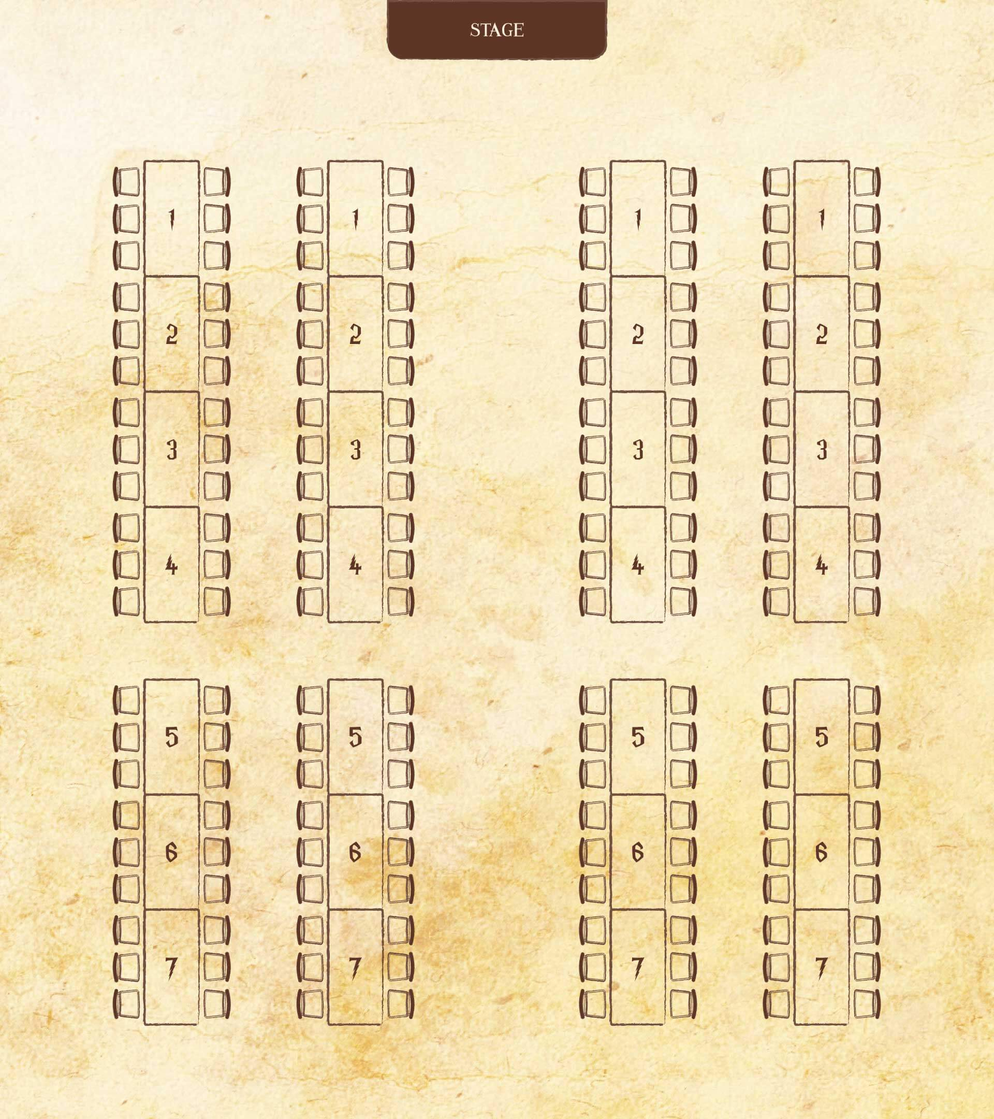
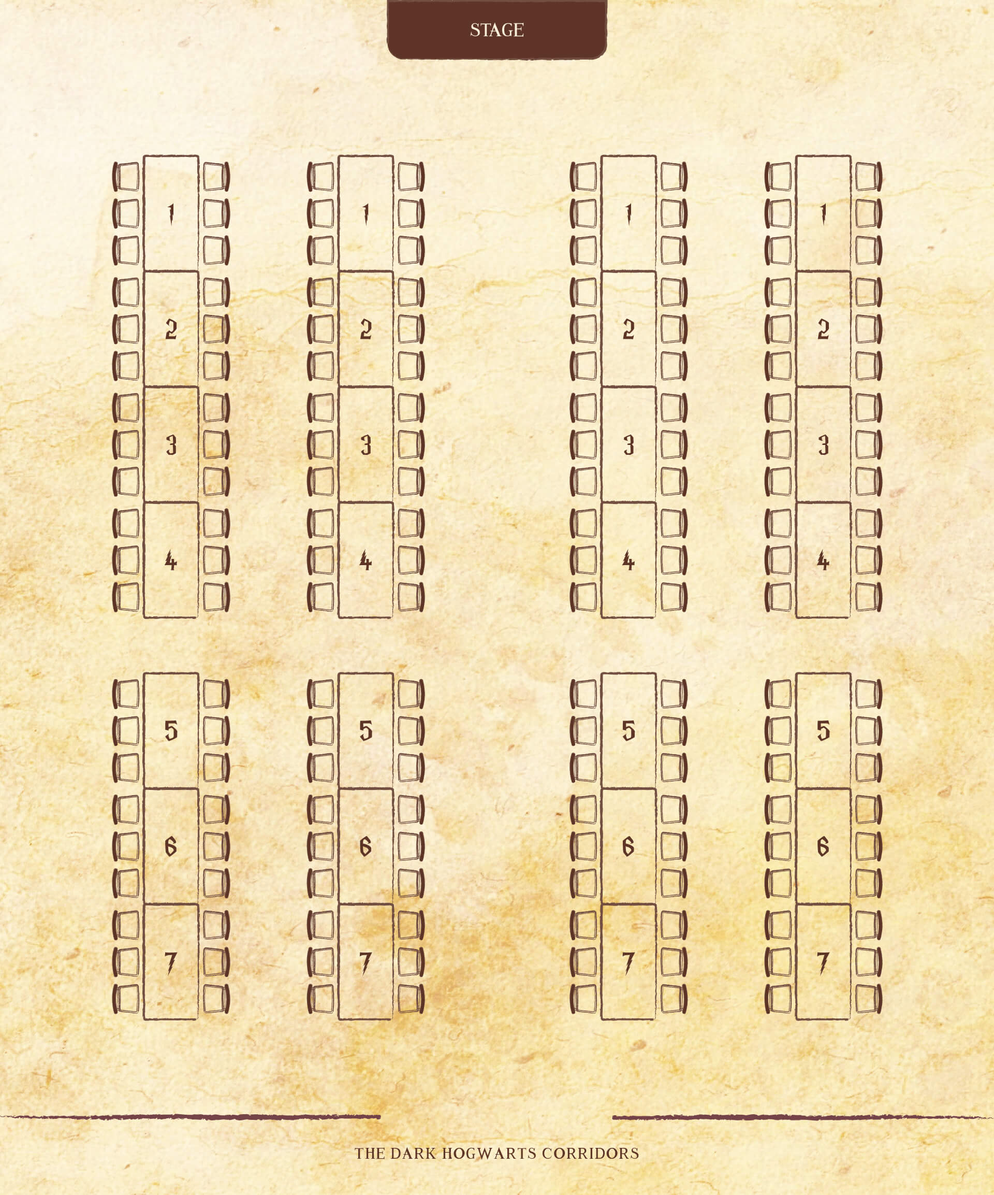
更換座位圖、 調整學院ribbon位置修改為同時出現、調整門位置

diff --git a/map.html b/map.html
@@ -26,12 +26,12 @@
                 <div class="page left"></div>
                 <div class="page right"></div>
             </div>
-            <svg id="svgCanvas" viewBox="0 0 1920 2160" class="fullscreen-background"
+            <svg id="svgCanvas" viewBox="0 0 1920 2307" class="fullscreen-background"
                 preserveAspectRatio="xMidYMid meet">
 
                 <!-- 背景圖片 -->
-                <image href="https://i.meee.com.tw/cNimNcK.jpg" class="background" x="0" y="0" width="1920"
-                    height="2160" />
+                <image href="https://i.meee.com.tw/dZiudH2.jpg" class="background" x="0" y="0" width="1920"
+                    height="2307" />
 
                 <!-- 路線 -->
                 <path id="route" fill="transparent" stroke="black" stroke-width="2" d="" visibility="hidden" />
@@ -64,14 +64,15 @@
 
             <img id="Slytherin" class="colleges" style="left:93px" src="https://i.meee.com.tw/z6jyuTN.png"
                 alt="Slytherin">
-            <img id="Hufflepuff" class="colleges" style="left:276px" src="https://i.meee.com.tw/KSE8csC.png"
+            <img id="Hufflepuff" class="colleges" style="left:284px" src="https://i.meee.com.tw/KSE8csC.png"
                 alt="Hufflepuff">
-            <img id="Gryffindor" class="colleges" style="left:553px" src="https://i.meee.com.tw/TdIjOoA.png"
+            <img id="Gryffindor" class="colleges" style="left:542px" src="https://i.meee.com.tw/TdIjOoA.png"
                 alt="Gryffindor">
             <img id="Ravenclaw" class="colleges" style="left:735px" src="https://i.meee.com.tw/zmxSXuE.png"
                 alt="Ravenclaw">
-            <img id="door-left" class="door" style="left:360px" src="https://i.meee.com.tw/EhK8iZB.png">
+            <img id="door-left" class="door" style="left:375px" src="https://i.meee.com.tw/EhK8iZB.png">
             <img id="door-right" class="door" style="left:490px" src="https://i.meee.com.tw/EhK8iZB.png">
+            <!-- <img id="chair" class="chair" style="left:490px" src="https://i.meee.com.tw/rV2UGjU.png"> -->
             <!-- <img id="door-font" class="door-font" src="https://i.meee.com.tw/ZNb98qo.png"> -->
         </div>
     </div>
@@ -90,7 +91,7 @@
         // 要檢查的圖片清單
         const requiredImages = [
             "https://i.meee.com.tw/pFhTRSj.png",
-            "https://i.meee.com.tw/cNimNcK.jpg",
+            "https://i.meee.com.tw/dZiudH2.jpg",
             "img/left-footprint.png",
             "img/right-footprint.png"
         ];
@@ -172,12 +173,9 @@
                         complete: function () {
                             // 依序顯示學院
                             colleges.forEach(function (id, index) {
-                                // 每個學院延遲 0.5 秒 * index
-                                setTimeout(function () {
-                                    $('#' + id).animate({ opacity: 1 }, 500, function () {
-                                        floatElement(id); // 顯示完成後啟動漂浮
-                                    });
-                                }, index * 500);
+                                $('#' + id).animate({ opacity: 1 }, 500, function () {
+                                    floatElement(id); // 顯示完成後啟動漂浮
+                                });
                             });
 
                             // 總延遲等學院都出現完後再捲動場景
@@ -194,7 +192,7 @@
 
                                     }
                                 );
-                            }, colleges.length * 500 + 1500);
+                            }, 500 + 1500);
 
                             setTimeout(function () {
                                 $('.ribbon').css({

diff --git a/styles.css b/styles.css
@@ -89,8 +89,8 @@ image {
 
 .door {
     position: absolute;
-    top: 1094px;
-    width: 130px;
+    top: 1097px;
+    width: 115px;
     height: 8px;
     z-index: 1;
     opacity: 1;
